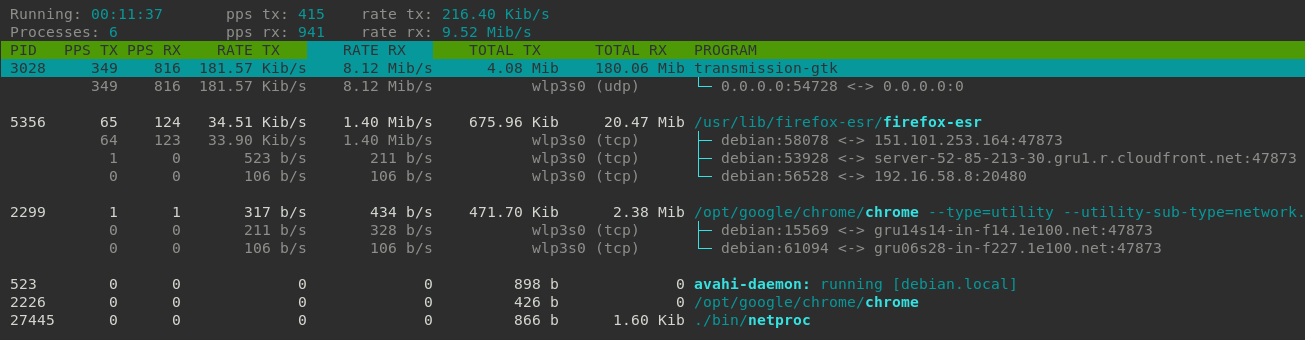
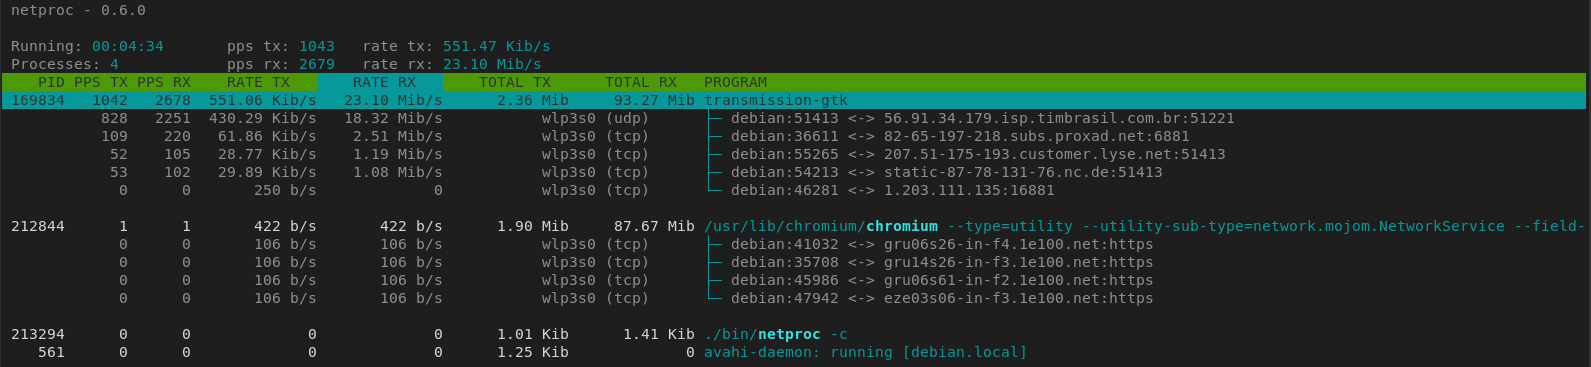
set version and updated img

diff --git a/src/config.h b/src/config.h
@@ -28,7 +28,7 @@
 #define PROG_NAME "netproc"
 #define PROG_NAME_LOG PROG_NAME ".log"
 
-#define PROG_VERSION "0.5.5"
+#define PROG_VERSION "0.6.0"
 
 // values field proto in struct config_op
 #define TCP ( 1 << 0 )
